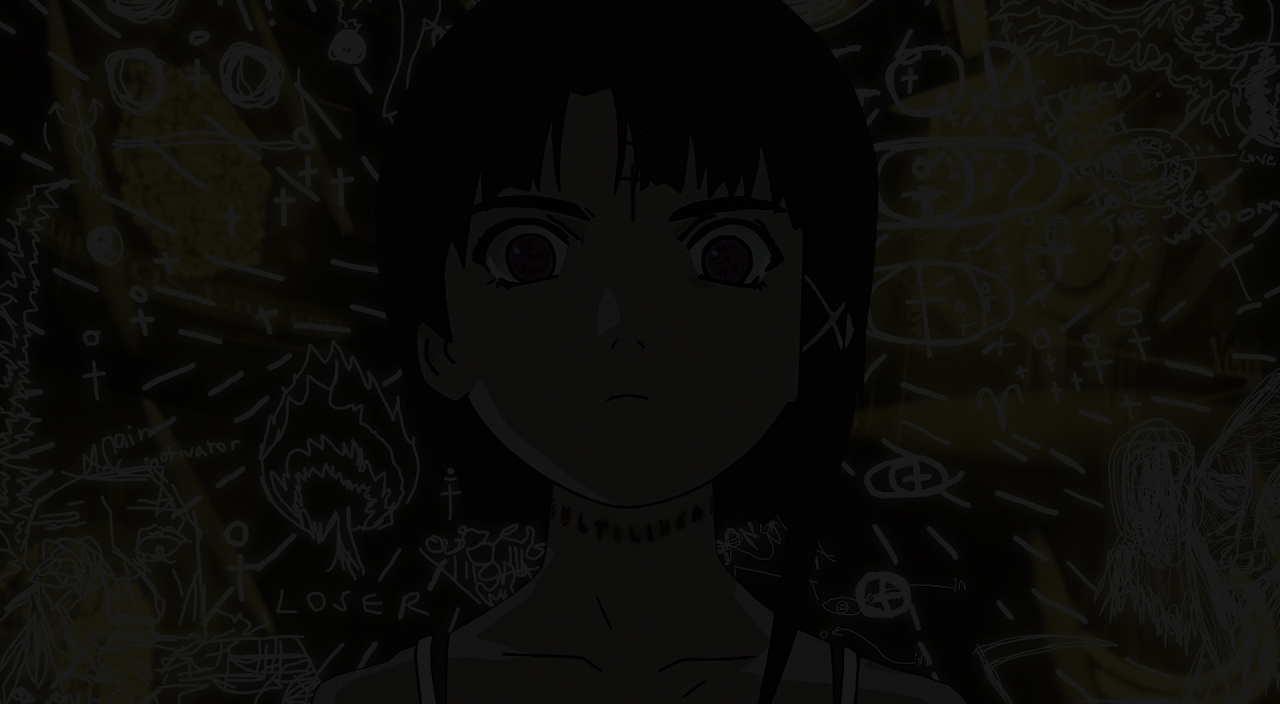
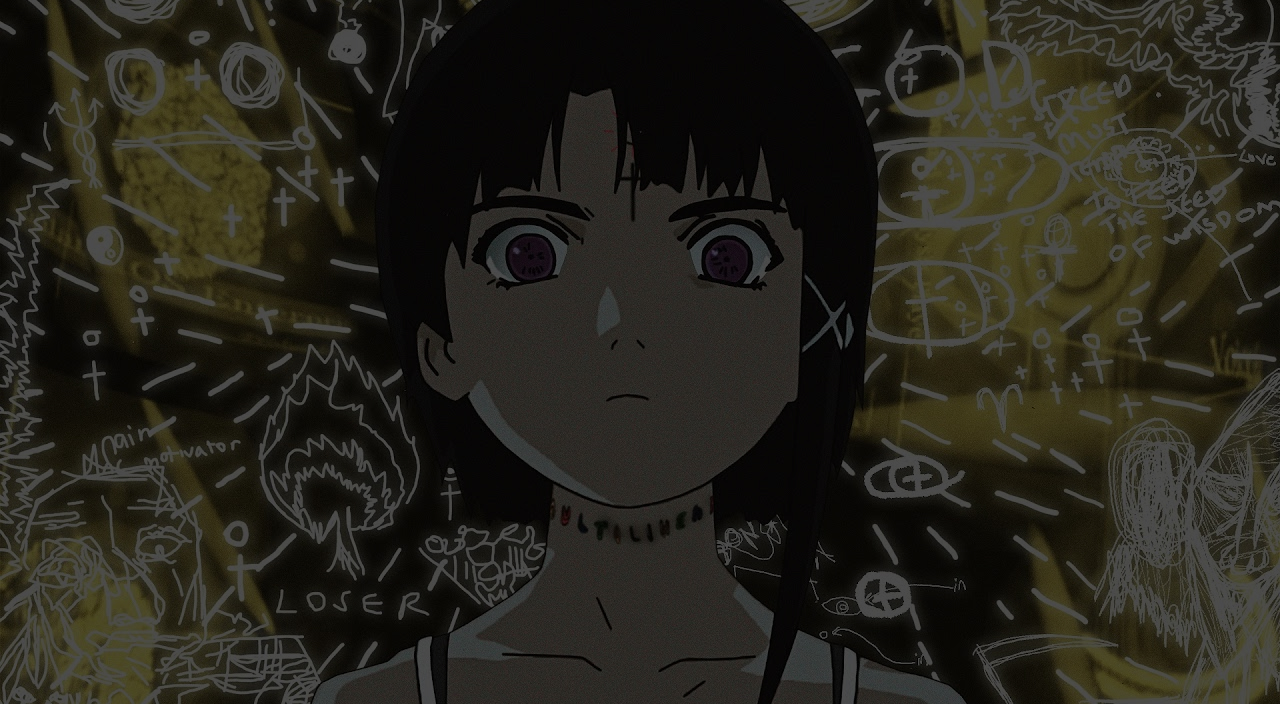
bg added for the about section

diff --git a/assets/css/style.css b/assets/css/style.css
@@ -234,6 +234,7 @@ ion-icon {
 
 /* About section */
 .about {
+   background: center / cover no-repeat url(../images/background/about-bg.jpg);
    width: 100%;
    padding: 20px;
    display: flex;
@@ -250,12 +251,12 @@ ion-icon {
 
 .right-side__title{
    font-size: 2rem;
-   color: var(--grey);
+   color: var(--white);
 }
 
 .right-side__description {
    font-size: 1rem;
-   color: var(--grey);
+   color: var(--white);
 }
 
 
